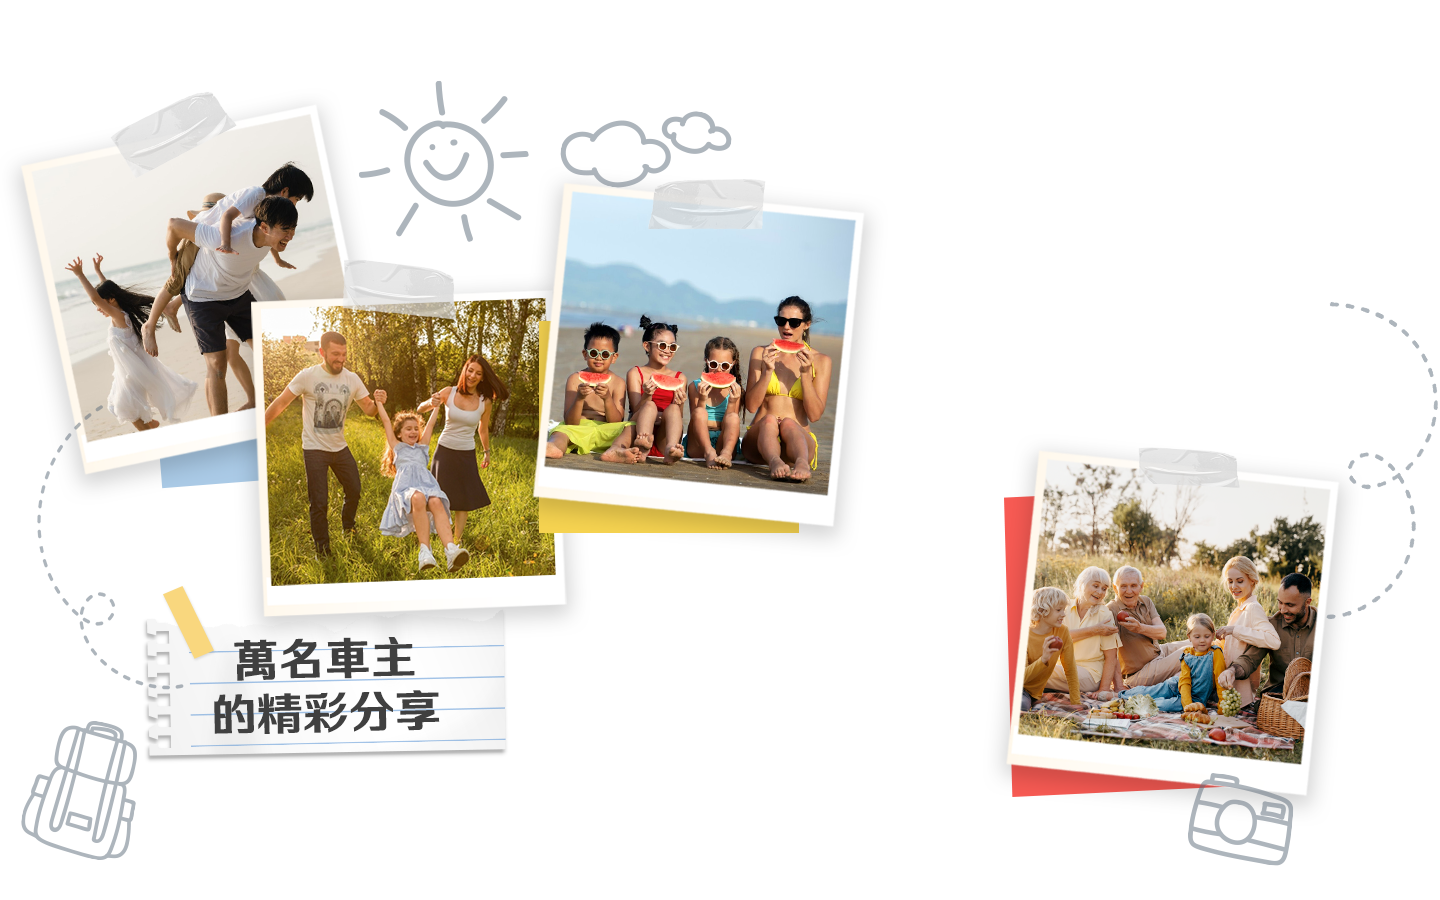
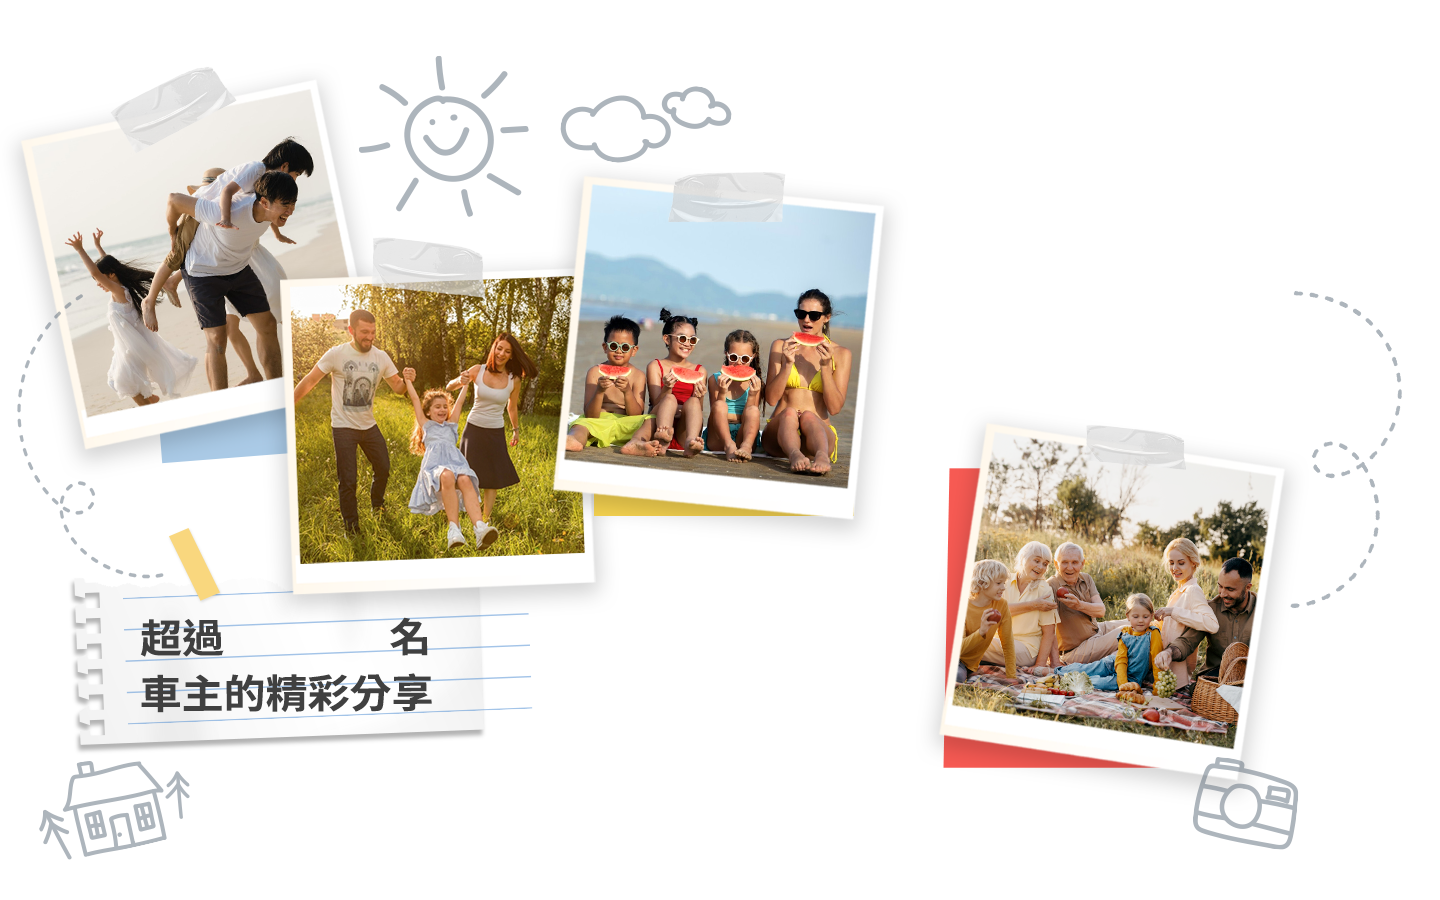
[modify] backup

diff --git a/src/assets/main.scss b/src/assets/main.scss
@@ -42,10 +42,26 @@ main{
     #page_intro_pc{
         height: 960px;
         width: 100%;
-        background: rgb(176,208,236);
-        background: -moz-linear-gradient(0deg, rgba(176,208,236,1) 0%, rgba(228,238,247,1) 100%);
-        background: -webkit-linear-gradient(0deg, rgba(176,208,236,1) 0%, rgba(228,238,247,1) 100%);
-        background: linear-gradient(0deg, rgba(176,208,236,1) 0%, rgba(228,238,247,1) 100%);
-        filter: progid:DXImageTransform.Microsoft.gradient(startColorstr="#b0d0ec",endColorstr="#e4eef7",GradientType=1);
+        background-image: url('../assets/img/post_bg.png');
+        background-size: cover;
+        background-position: center center;
+        background-repeat: no-repeat;
+
+        .container{
+            height: 100%;
+            background-image: url('../assets/img/post_content_bg.png');
+            background-size: contain;
+            background-position: top center;
+            background-repeat: no-repeat;
+
+            .link{
+                padding: 10px 15px;
+                margin: 0 3px;
+                background-color: #5d7b97;
+                display: inline-block;
+                color: #fff;
+                font-size: 20px;
+            }
+        }
     }
 }

diff --git a/src/views/HomeView.vue b/src/views/HomeView.vue
@@ -2,7 +2,6 @@
 import { useRouter, useRoute } from "vue-router";
 
 export default {
-
   setup() {
     const router = useRouter();
 
@@ -10,7 +9,6 @@ export default {
     //   router.push({ name: "final" });
     //   playBackgroundMusic()
     // };
-
 
     // const toNextPage = () => {
     //   router.push({ name: "intro_2" });
@@ -40,7 +38,13 @@ export default {
 
     <section id="page_intro_pc">
       <div class="container">
-        123
+        <div class="row">
+          <div class="col-12 text-center">
+            <div class="link">故事募集中</div>
+            <div class="link">幸福故事集</div>
+            <div class="link">名人車主故事&體驗分享</div>
+          </div>
+        </div>
       </div>
     </section>
   </main>
